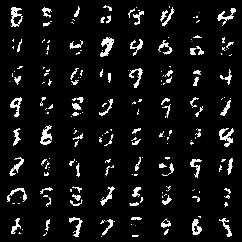
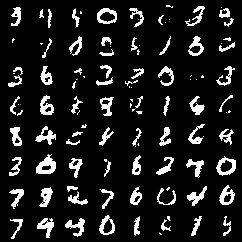
final

diff --git a/src/mini_project_01/models/flow.py b/src/mini_project_01/models/flow.py
@@ -322,7 +322,7 @@ class Flow(nn.Module):
         log_px = log_pz + log_det
         return log_px
 
-    def sample(self, num_samples: int) -> torch.Tensor:
+    def sample(self, num_samples: int, temperature: float = 1) -> torch.Tensor:
         """
         Generate samples from the flow model by sampling from the base and
         applying the inverse transform.
@@ -331,17 +331,20 @@ class Flow(nn.Module):
         ----------
         num_samples : int
             Number of samples to draw.
+        temperature : float
+            Temperature for sampling (default 1). Higher temperature
+            leads to more exploration in the latent space.
 
         Returns
         -------
         x_samples : torch.Tensor of shape (num_samples, D)
             Samples in data space.
         """
-        # Sample from base distribution
+
         z = self.base_dist.sample((num_samples,))
-        # latent -> data
-        x, _ = self.inverse(z)
-        return x
+        z = z * temperature
+        x_samples, _ = self.inverse(z)
+        return x_samples
 
     def loss(self, x: torch.Tensor) -> torch.Tensor:
         """

diff --git a/src/mini_project_01/sample.py b/src/mini_project_01/sample.py
@@ -38,7 +38,8 @@ def sample(model) -> None:
             samples = model.sample((64, 784))
             samples = samples / 2 + 0.5
         elif cfg.models.name == "flow":
-            samples = model.sample(64)
+            temperature = 1.3 # 1 is normal, higher leads to more exploration/randomness
+            samples = model.sample(64, temperature)
             # samples = samples / 2 + 0.5
         else:
             samples = model.sample(n_samples=64)
